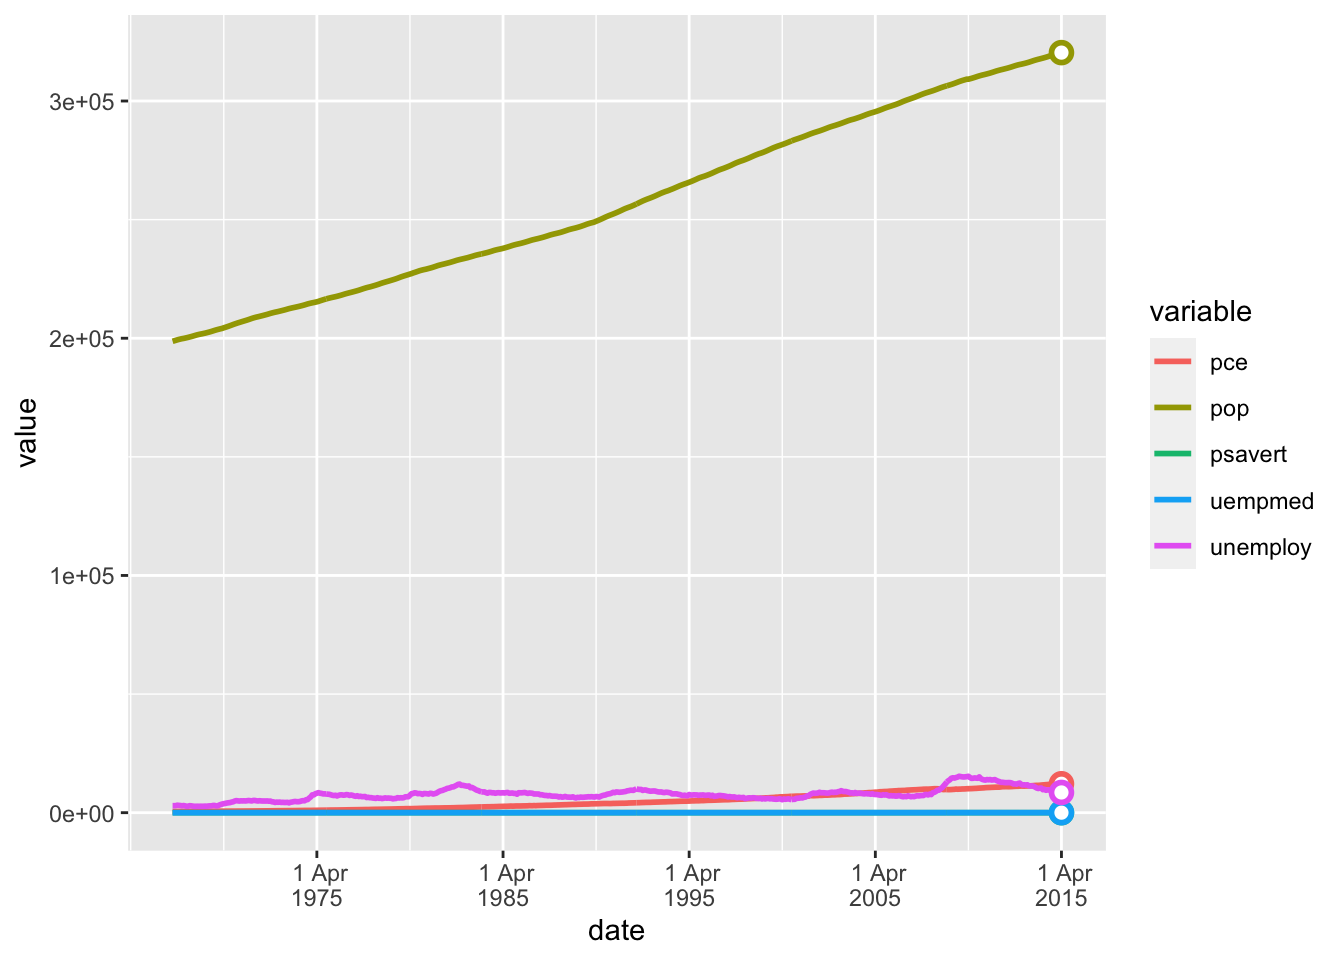
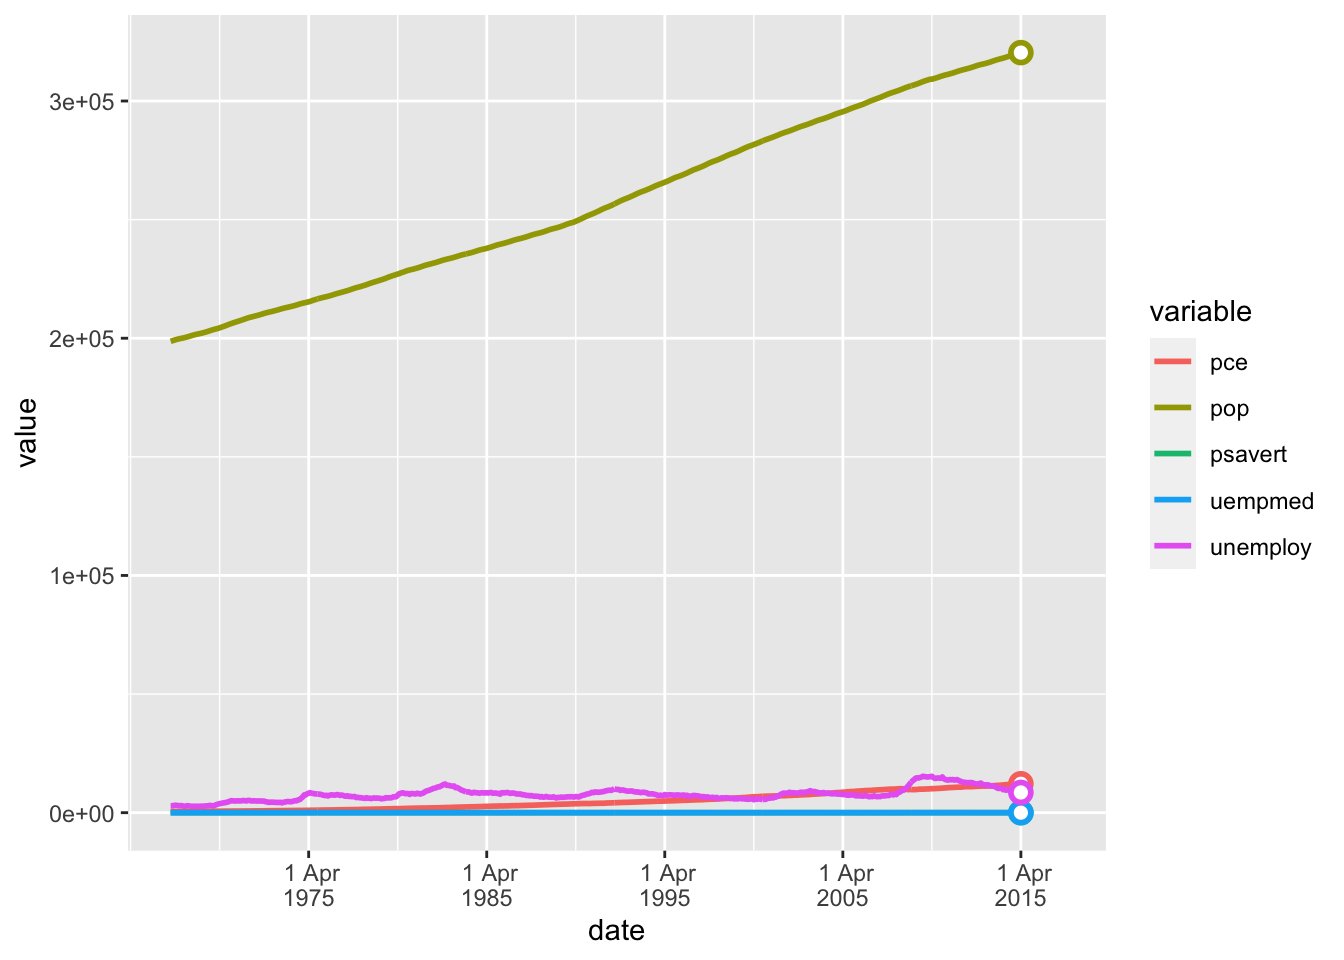
add nudge_x_perc argument to geom_finallabel

diff --git a/README.md b/README.md
@@ -73,7 +73,17 @@ ggplot2::economics_long %>%
 
 <img src="man/figures/README-scale_x_date_rightalign-1.png" width="100%" />
 
-## Functions (possibly) to come
+## Using `geom_finallabel()`
 
--   Label the points
--   Expand the x-axis to accommodate the points
+In time series line charts, you may wish to label the final point in the
+series. The `geom_finallabel()` function makes that easy.
+
+``` r
+ggplot2::economics_long %>%
+  ggplot(aes(x = date, y = value, col = variable)) +
+  geom_linepoint() +
+  geom_finallabel(aes(label = value)) +
+  scale_x_date_rightalign()
+```
+
+<img src="man/figures/README-geom_finallabel-1.png" width="100%" />
